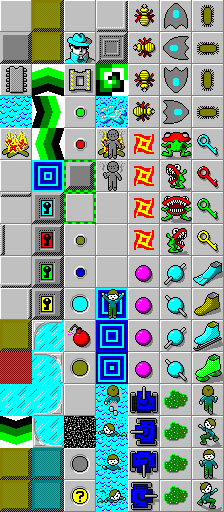
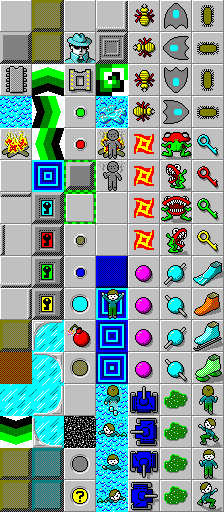
The claimed array is now saved in LynxSavestate. Added the ability to change positions of items in the sliplist. Made SuperCCTest not save states as they were never used. Readded the ice block to the non editor graphics (oopsies).

Changed region(s): [[0.4062, 0.5, 0.5938, 0.5625]]

diff --git a/src/main/java/tools/MonsterlistRearrangeGUI.java b/src/main/java/tools/MonsterlistRearrangeGUI.java
@@ -8,24 +8,29 @@ import javax.swing.*;
 import java.awt.event.*;
 
 public class MonsterlistRearrangeGUI {
-    private SuperCC emulator;
     private JPanel mainPanel;
-    private JList guiList;
+    private JList<Creature> guiList;
     private DefaultListModel<Creature> listModel = new DefaultListModel<>();
     private JScrollPane scrollPane;
     private JButton upButton;
     private JButton downButton;
 
-    public MonsterlistRearrangeGUI(SuperCC emulator) {
-        this.emulator = emulator;
-        for (Creature c : emulator.getLevel().getMonsterList().getCreatures()) {
-            if (c.getCreatureType().isChip()) continue;
+    public MonsterlistRearrangeGUI(SuperCC emulator, boolean useSliplist) {
+        Creature[] list;
+        if (useSliplist)
+            list = emulator.getLevel().getSlipList().toArray(new Creature[0]);
+        else
+            list = emulator.getLevel().getMonsterList().getCreatures();
+
+        for (Creature c : list) {
+            if (c.getCreatureType().isChip())
+                continue;
             listModel.addElement(c);
         }
         guiList.setModel(listModel);
         guiList.setVisibleRowCount(-1);
 
-        JFrame frame = new JFrame("Change Monster List Positions");
+        JFrame frame = new JFrame("Change " + (useSliplist ? "Slip" : "Monster") + " List Positions");
         frame.setContentPane(mainPanel);
         frame.pack();
         frame.setLocationRelativeTo(emulator.getMainWindow());
@@ -33,13 +38,13 @@ public class MonsterlistRearrangeGUI {
         frame.addWindowListener(new WindowAdapter() {
             @Override
             public void windowClosing(WindowEvent e) {
-                updateChanges(emulator);
+                updateChanges(emulator, useSliplist);
             }
         });
 
         upButton.addActionListener(e -> {
             int index = guiList.getSelectedIndex();
-            Creature selected = (Creature) guiList.getSelectedValue();
+            Creature selected = guiList.getSelectedValue();
             if (index > 0) {
                 listModel.remove(index);
                 listModel.add(index-1, selected);
@@ -48,7 +53,7 @@ public class MonsterlistRearrangeGUI {
         });
         downButton.addActionListener(e -> {
             int index = guiList.getSelectedIndex();
-            Creature selected = (Creature) guiList.getSelectedValue();
+            Creature selected = guiList.getSelectedValue();
             if (index < listModel.size()-1) {
                 listModel.remove(index);
                 listModel.add(index+1, selected);
@@ -57,14 +62,20 @@ public class MonsterlistRearrangeGUI {
         });
     }
 
-    private void updateChanges(SuperCC emulator) {
+    private void updateChanges(SuperCC emulator, boolean useSliplist) {
         Level level = emulator.getLevel();
-        int chipIndex = level.getMonsterList().getIndexOfCreature(level.getChip());
-        if (level.chipInMonsterList()) listModel.add(chipIndex, level.getChip());
+        if (!useSliplist) {
+            int chipIndex = level.getMonsterList().getIndexOfCreature(level.getChip());
+            if (level.chipInMonsterList())
+                listModel.add(chipIndex, level.getChip());
+        }
 
         Creature[] list = new Creature[listModel.size()];
         listModel.copyInto(list);
-        level.getMonsterList().setCreatures(list, level.getLayerFG());
+        if (useSliplist)
+            level.getSlipList().setSliplist(list);
+        else
+            level.getMonsterList().setCreatures(list, level.getLayerFG());
         emulator.getMainWindow().repaint(false);
     }
 }

diff --git a/src/main/java/game/Lynx/LynxSavestate.java b/src/main/java/game/Lynx/LynxSavestate.java
@@ -2,8 +2,6 @@ package game.Lynx;
 
 import game.*;
 
-import java.util.BitSet;
-
 public class LynxSavestate implements Savestate {
 
     private static final byte UNCOMPRESSED_V2 = 6;
@@ -34,6 +32,7 @@ public class LynxSavestate implements Savestate {
                 1 +                             // RFF
                 2 +                             // monsterlist size
                 monsterList.size() * 4 +        // monsterlist
+                1024 +                          // claimed array
                 1;                              // lastMoveForced
 
         SavestateWriter writer = new SavestateWriter(length);
@@ -50,6 +49,7 @@ public class LynxSavestate implements Savestate {
         writer.write(rffDirection.ordinal());
         writer.writeShort(monsterList.size());
         writer.writeIntMonsterArray(monsterList.getCreatures());
+        writer.writeBools(monsterList.getClaimedArray());
         writer.writeBool(lastMoveForced);
 
         return writer.toByteArray();
@@ -72,6 +72,7 @@ public class LynxSavestate implements Savestate {
             rng.setPRNG2(reader.readInt());
             rffDirection = Direction.fromOrdinal(reader.read());
             monsterList.setCreatures(reader.readLynxMonsterArray(reader.readShort()), layerFG);
+            monsterList.setClaimedArray(reader.readBools(1024));
             lastMoveForced = reader.readBool();
 
             chip = monsterList.get(0);

diff --git a/src/main/java/graphics/MenuBar.java b/src/main/java/graphics/MenuBar.java
@@ -599,8 +599,17 @@ class MenuBar extends JMenuBar{
             add(time);
 
             JMenuItem monsterList = new JMenuItem("Change Monster List Positions");
-            monsterList.addActionListener(e -> new MonsterlistRearrangeGUI(emulator));
+            monsterList.addActionListener(e -> new MonsterlistRearrangeGUI(emulator, false));
             add(monsterList);
+
+            JMenuItem slipList = new JMenuItem("Change Slip List Positions");
+            slipList.addActionListener(e -> {
+                if (emulator.getLevel().supportsSliplist())
+                    new MonsterlistRearrangeGUI(emulator, true);
+                else
+                    emulator.throwError("The Slip List does not exist in this ruleset.");
+            });
+            add(slipList);
             
             add(new JSeparator());
     

diff --git a/src/test/java/emulator/SuperCCTest.java b/src/test/java/emulator/SuperCCTest.java
@@ -33,7 +33,7 @@ class SuperCCTest {
             Level level = emulator.getLevel();
             try {
                 Solution s = getSolution(solutionName, i);
-                s.load(emulator);
+                s.load(emulator, TickFlags.LIGHT);
                 level = emulator.getLevel();
                 if (level.getLayerFG().get(level.getChip().getPosition()) != Tile.EXITED_CHIP && !level.isCompleted()) {
                     System.out.println("failed level " + level.getLevelNumber() + " " + new String(level.getTitle()));

diff --git a/src/main/java/game/CreatureList.java b/src/main/java/game/CreatureList.java
@@ -90,6 +90,13 @@ public abstract class CreatureList implements Iterable<Creature> {
      */
     public abstract void adjustClaim(Position position, boolean claim);
 
+    /**
+     * @return the array of claimed positions.
+     */
+    public abstract boolean[] getClaimedArray();
+
+    public abstract void setClaimedArray(boolean[] claimedArray);
+
     /** Returns the animation currently occurring at the given position (null if there is no animation).
      *
      * @param position The position to check.

diff --git a/src/main/java/game/SavestateWriter.java b/src/main/java/game/SavestateWriter.java
@@ -46,6 +46,14 @@ public class SavestateWriter {
         if (n) write(1);
         else write(0);
     }
+    public void writeBools(boolean[] list) {
+        for (boolean b : list) {
+            if (b)
+                write(1);
+            else
+                write(0);
+        }
+    }
 
     public byte[] toByteArray() {
         return bytes;
@@ -54,5 +62,4 @@ public class SavestateWriter {
     public SavestateWriter(int size) {
         bytes = new byte[size];
     }
-
 }

diff --git a/src/main/java/game/MS/MSCreatureList.java b/src/main/java/game/MS/MSCreatureList.java
@@ -187,6 +187,16 @@ public class MSCreatureList extends game.CreatureList {
     }
 
     @Override
+    public boolean[] getClaimedArray() {
+        return new boolean[0];
+    }
+
+    @Override
+    public void setClaimedArray(boolean[] claimedArray) {
+        return;
+    }
+
+    @Override
     public Creature animationAt(Position position) {
         throw new UnsupportedOperationException("MS does not have a concept of animations.");
     }

diff --git a/src/main/java/game/Lynx/LynxCreatureList.java b/src/main/java/game/Lynx/LynxCreatureList.java
@@ -165,6 +165,16 @@ public class LynxCreatureList extends CreatureList {
     }
 
     @Override
+    public boolean[] getClaimedArray() {
+        return creatureLayer;
+    }
+
+    @Override
+    public void setClaimedArray(boolean[] claimedArray) {
+        this.creatureLayer = claimedArray;
+    }
+
+    @Override
     public Creature animationAt(Position position) {
         if (!position.isValid())
             return null;

diff --git a/src/main/java/game/SavestateReader.java b/src/main/java/game/SavestateReader.java
@@ -69,9 +69,15 @@ public class SavestateReader extends ByteArrayInputStream {
     public boolean readBool() {
         return read() == 1;
     }
+    public boolean[] readBools(int length) {
+        boolean[] list = new boolean[length];
+        for (int i = 0; i < length; i++) {
+            list[i] = readBool();
+        }
+        return list;
+    }
 
     public SavestateReader(byte[] b){
         super(b);
     }
-
 }

diff --git a/src/main/java/graphics/SmallGamePanel.java b/src/main/java/graphics/SmallGamePanel.java
@@ -191,6 +191,8 @@ public class SmallGamePanel extends GamePanel {
 
         previousLayerFG = layerFG.clone();
         previousScreenTopLeft = screenTopLeft.clone();
+
+        graphicsCreatures.dispose();
     }
     
     @Override
